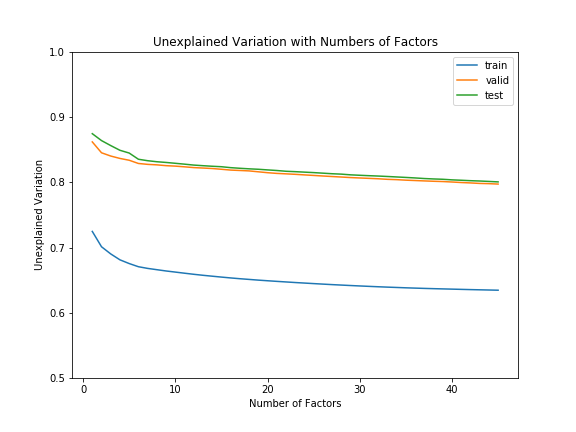
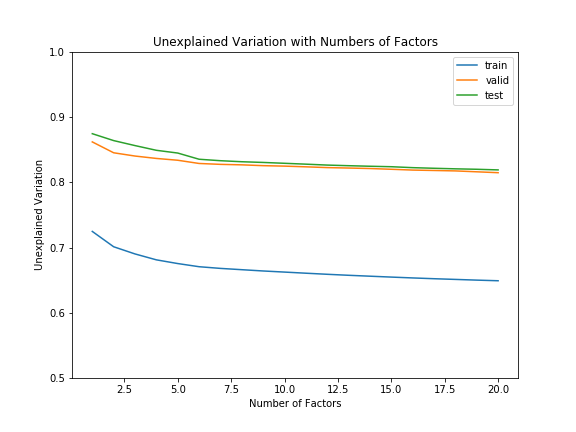
add results

diff --git a/src/utils.py b/src/utils.py
@@ -41,7 +41,7 @@ def FamaMcBethAlpha(residual, mask, weighted=False):
 		Alpha = np.mean(np.square(residual.sum(axis=0) / T_i))
 	return Alpha
 
-def calculateAllStatistics(model, dl_train, dl_valid, dl_test, nFactorMax=46):
+def calculateAllStatistics(model, dl_train, dl_valid, dl_test, nFactorMax=20):
 	nFactors_list = np.arange(min(model._individual_feature_dim, nFactorMax)) + 1
 	count = len(nFactors_list)
 	SR = np.zeros((3, count), dtype=float)

diff --git a/README.md b/README.md
@@ -14,43 +14,55 @@ Table of Contents
 
 Here we report the results for the number of factor with the best validation Sharpe Ratio. 
 
+- Number of Factors
+
+| Model              |    |
+|:------------------:|:--:|
+| Naive IPCA         | 12 |
+| Iterative IPCA     | 17 |
+| Deep IPCA (Linear) | 14 |
+
+
 - Sharpe Ratio
 
-| Model          | Train | Valid | Test  |
-|:--------------:|:-----:|:-----:|:-----:|
-| Naive IPCA     | 1.04  | 1.17  | 0.47  |
-| Iterative IPCA | 2.12  | 1.52  | 0.95  |
-| Deep IPCA      |
+| Model              | Train | Valid | Test  |
+|:------------------:|:-----:|:-----:|:-----:|
+| Naive IPCA         | 1.04  | 1.17  | 0.47  |
+| Iterative IPCA     | 2.12  | 1.52  | 0.95  |
+| Deep IPCA (Linear) | 2.04  | 1.58  | 0.94  |
 
 <p align="center">
  <img src="https://github.com/LouisChen1992/DeepIPCA/blob/master/model/IPCA_naive/SR.png" width="400" title="Naive IPCA">
  <img src="https://github.com/LouisChen1992/DeepIPCA/blob/master/model/IPCA_Kelly/SR.png" width="400" title="Iterative IPCA">
+ <img src="https://github.com/LouisChen1992/DeepIPCA/blob/master/model/IPCA_KellyWithFFN/SR.png" width="400" title="Deep IPCA (Linear)">
 </p>
 
 - Unexplained Variation
 
-| Model          | Train | Valid | Test  |
-|:--------------:|:-----:|:-----:|:-----:|
-| Naive IPCA     | 0.99  | 0.99  | 0.99  |
-| Iterative IPCA | 0.65  | 0.82  | 0.82  |
-| Deep IPCA      |
+| Model              | Train | Valid | Test  |
+|:------------------:|:-----:|:-----:|:-----:|
+| Naive IPCA         | 0.99  | 0.99  | 0.99  |
+| Iterative IPCA     | 0.65  | 0.82  | 0.82  |
+| Deep IPCA (Linear) | 0.65  | 0.82  | 0.82  |
 
 <p align="center">
  <img src="https://github.com/LouisChen1992/DeepIPCA/blob/master/model/IPCA_naive/UV.png" width="400" title="Naive IPCA">
  <img src="https://github.com/LouisChen1992/DeepIPCA/blob/master/model/IPCA_Kelly/UV.png" width="400" title="Iterative IPCA">
+ <img src="https://github.com/LouisChen1992/DeepIPCA/blob/master/model/IPCA_KellyWithFFN/UV.png" width="400" title="Deep IPCA (Linear)">
 </p>
 
 - Fama-McBeth Type Alpha (1e-03)
 
-| Model          | Train | Valid | Test  |
-|:--------------:|:-----:|:-----:|:-----:|
-| Naive IPCA     | 1.45  | 3.50  | 4.00  |
-| Iterative IPCA | 1.32  | 3.07  | 3.62  |
-| Deep IPCA      |
+| Model              | Train | Valid | Test  |
+|:------------------:|:-----:|:-----:|:-----:|
+| Naive IPCA         | 1.45  | 3.50  | 4.00  |
+| Iterative IPCA     | 1.32  | 3.07  | 3.62  |
+| Deep IPCA (Linear) | 1.30  | 3.11  | 3.71  |
 
 <p align="center">
  <img src="https://github.com/LouisChen1992/DeepIPCA/blob/master/model/IPCA_naive/Alpha.png" width="400" title="Naive IPCA">
  <img src="https://github.com/LouisChen1992/DeepIPCA/blob/master/model/IPCA_Kelly/Alpha.png" width="400" title="Iterative IPCA">
+ <img src="https://github.com/LouisChen1992/DeepIPCA/blob/master/model/IPCA_KellyWithFFN/Alpha.png" width="400" title="Deep IPCA (Linear)">
 </p>
 
 - Weighted Fama-McBeth Type Alpha (1e-04)
@@ -59,11 +71,12 @@ Here we report the results for the number of factor with the best validation Sha
 |:--------------:|:-----:|:-----:|:-----:|
 | Naive IPCA     | 1.00  | 5.51  | 1.70  |
 | Iterative IPCA | 0.68  | 4.73  | 1.23  |
-| Deep IPCA      |
+| Deep IPCA      | 0.68  | 4.79  | 1.25  |
 
 <p align="center">
  <img src="https://github.com/LouisChen1992/DeepIPCA/blob/master/model/IPCA_naive/Alpha_weighted.png" width="400" title="Naive IPCA">
  <img src="https://github.com/LouisChen1992/DeepIPCA/blob/master/model/IPCA_Kelly/Alpha_weighted.png" width="400" title="Iterative IPCA">
+ <img src="https://github.com/LouisChen1992/DeepIPCA/blob/master/model/IPCA_KellyWithFFN/Alpha_weighted.png" width="400" title="Deep IPCA (Linear)">
 </p>
 
 ### Author
